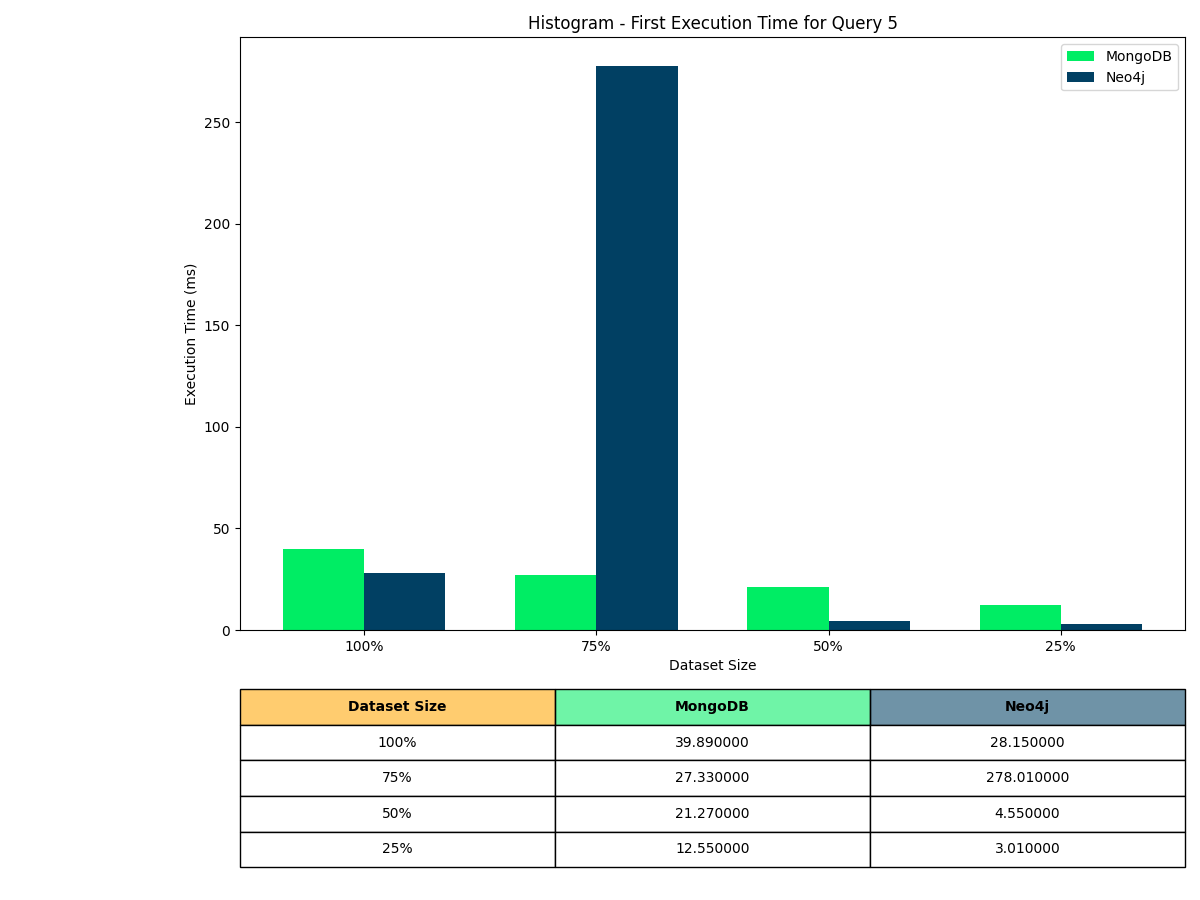
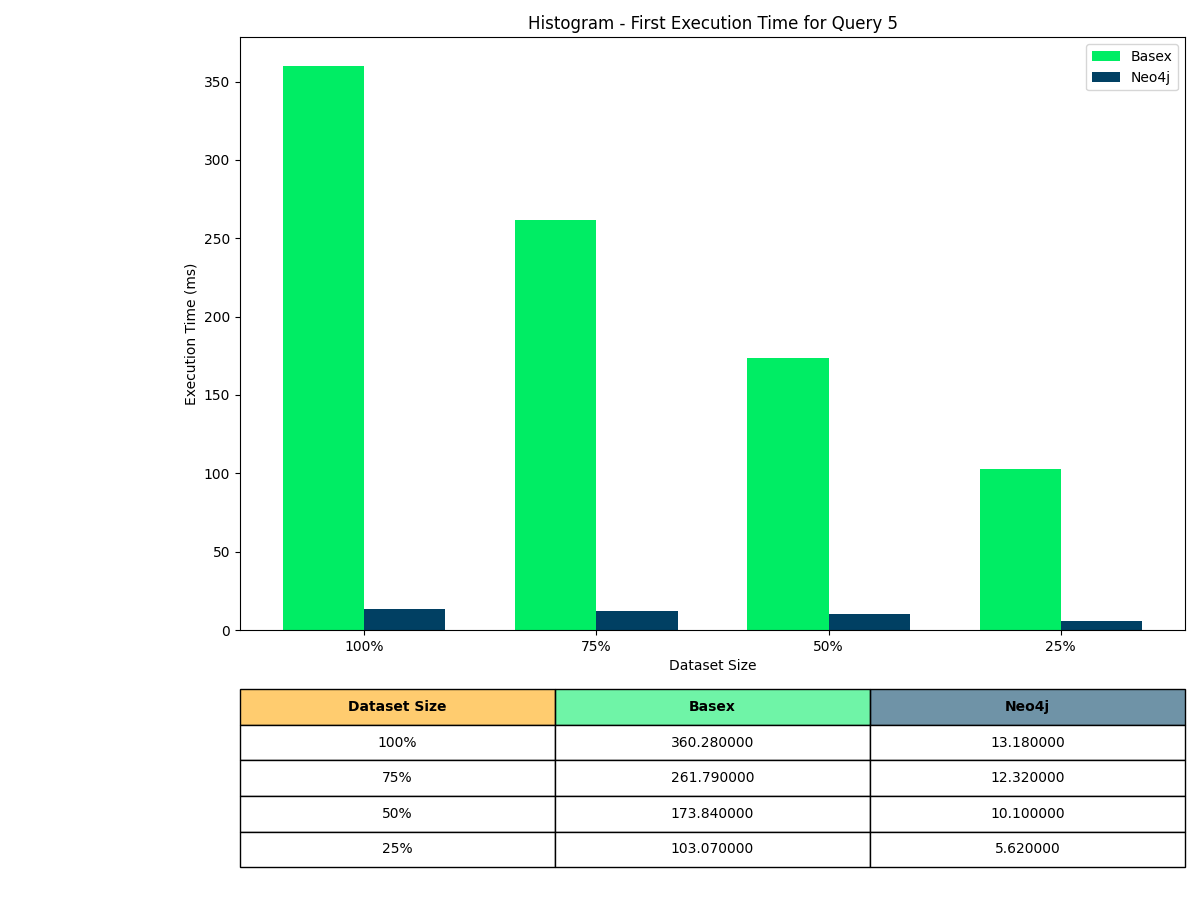
Finito tutto (forse)

diff --git a/BaseX/Query.py b/BaseX/Query.py
@@ -56,7 +56,7 @@ def query2(session, percentage):
 
         let $company := collection(concat("UBO_", '{percentage}'))//ubo_record[@entity_type='companies' and id=9133]
 
-        let $admins_ids := tokenize(substring-before(substring-after($company/administrators/text(), '['), ']'), ',\s*')
+        let $admins_ids := tokenize(substring-before(substring-after($company/administrators/text(), '['), ']'), ',\\s*')
 
         let $admins := 
             for $admin_id in $admins_ids
@@ -84,13 +84,13 @@ def query3(session, percentage):
 
         let $company := collection(concat("UBO_", '{percentage}'))//ubo_record[@entity_type='companies' and id={company_id}]
         
-        let $admins_ids := tokenize(substring-before(substring-after($company/administrators/text(), '['), ']'), ',\s*')
+        let $admins_ids := tokenize(substring-before(substring-after($company/administrators/text(), '['), ']'), ',\\s*')
         
         let $admins := 
             for $admin_id in $admins_ids
             return collection(concat("UBO_", '{percentage}'))//ubo_record[@entity_type='administrators' and id=xs:integer($admin_id)]
 
-        let $ubo_ids := tokenize(substring-before(substring-after($company/ubo/text(), '['), ']'), ',\s*')
+        let $ubo_ids := tokenize(substring-before(substring-after($company/ubo/text(), '['), ']'), ',\\s*')
 
         let $ubos := 
             for $ubo_id in $ubo_ids
@@ -141,13 +141,13 @@ def query4(session, percentage):
 
     let $company := collection(concat("UBO_", '{percentage}'))//ubo_record[@entity_type='companies' and id={company_id}]
 
-    let $admins_ids := tokenize(substring-before(substring-after($company/administrators/text(), '['), ']'), ',\s*')
+    let $admins_ids := tokenize(substring-before(substring-after($company/administrators/text(), '['), ']'), ',\\s*')
 
     let $admins := 
         for $admin_id in $admins_ids
         return collection(concat("UBO_", '{percentage}'))//ubo_record[@entity_type='administrators' and id=xs:integer($admin_id)]
 
-    let $ubo_ids := tokenize(substring-before(substring-after($company/ubo/text(), '['), ']'), ',\s*')
+    let $ubo_ids := tokenize(substring-before(substring-after($company/ubo/text(), '['), ']'), ',\\s*')
 
     let $ubos := 
         for $ubo_id in $ubo_ids
@@ -155,7 +155,7 @@ def query4(session, percentage):
         where xs:decimal($ubo_record/ownership_percentage) > {ubo_percentage}
         return $ubo_record
 
-    let $transaction_ids := tokenize(substring-before(substring-after($company/transactions/text(), '['), ']'), ',\s*')
+    let $transaction_ids := tokenize(substring-before(substring-after($company/transactions/text(), '['), ']'), ',\\s*')
 
     let $start_date := xs:date("{start_date}")
     let $end_date := xs:date("{end_date}")
@@ -216,13 +216,13 @@ def query5(session, percentage):
 
     let $company := collection(concat("UBO_", '{percentage}'))//ubo_record[@entity_type='companies' and id={company_id}]
 
-    let $admins_ids := tokenize(substring-before(substring-after($company/administrators/text(), '['), ']'), ',\s*')
+    let $admins_ids := tokenize(substring-before(substring-after($company/administrators/text(), '['), ']'), ',\\s*')
 
     let $admins := 
         for $admin_id in $admins_ids
         return collection(concat("UBO_", '{percentage}'))//ubo_record[@entity_type='administrators' and id=xs:integer($admin_id)]
 
-    let $ubo_ids := tokenize(substring-before(substring-after($company/ubo/text(), '['), ']'), ',\s*')
+    let $ubo_ids := tokenize(substring-before(substring-after($company/ubo/text(), '['), ']'), ',\\s*')
 
     let $ubos := 
         for $ubo_id in $ubo_ids
@@ -230,7 +230,7 @@ def query5(session, percentage):
         where xs:decimal($ubo_record/ownership_percentage) > {ubo_percentage}
         return $ubo_record
 
-    let $transaction_ids := tokenize(substring-before(substring-after($company/transactions/text(), '['), ']'), ',\s*')
+    let $transaction_ids := tokenize(substring-before(substring-after($company/transactions/text(), '['), ']'), ',\\s*')
 
     let $date := xs:date("{date}")
 
@@ -242,7 +242,7 @@ def query5(session, percentage):
 
     let $total_transaction_amount := sum($transactions/amount)
 
-    let $kyc_aml_ids := tokenize(substring-before(substring-after($company/kyc_aml_checks/text(), '['), ']'), ',\s*')
+    let $kyc_aml_ids := tokenize(substring-before(substring-after($company/kyc_aml_checks/text(), '['), ']'), ',\\s*')
 
     let $kyc_aml_results := 
         for $kyc_aml_id in $kyc_aml_ids
@@ -297,6 +297,13 @@ def main():
     session = BaseXClient.Session('localhost', 1984, 'admin', 'admin')
 
     percentages = ['100', '75', '50', '25']  # Percentuali del dataset
+    # Dizionario per la mappatura diretta dei dataset ai valori con il simbolo della percentuale nei file di ResponseTime
+    dataset_mapping = {
+        '100': '100%',
+        '75': '75%',
+        '50': '50%',
+        '25': '25%'
+    }
     first_execution_response_times = {}
     average_response_times = {}
 
@@ -396,12 +403,14 @@ def main():
 
         print("-" * 70)  # Separatore tra le diverse percentuali
 
+
     # Salva i risultati
     with open('BaseX/ResponseTimes/basex_response_times_first_execution.csv', mode='w', newline='') as file:
         writer = csv.writer(file)
         writer.writerow(['Dataset', 'Query', 'Milliseconds'])
         for query, first_execution_time in first_execution_response_times.items():
             dataset, query = query.split(' - ')
+            dataset = dataset_mapping.get(dataset, dataset)
             writer.writerow([dataset, query, first_execution_time])
 
     with open('BaseX/ResponseTimes/basex_response_times_average_30.csv', mode='w', newline='') as file:
@@ -409,9 +418,10 @@ def main():
         writer.writerow(['Dataset', 'Query', 'Milliseconds', 'Average', 'Confidence Interval (Min, Max)'])
         for query, (average_time_subsequent, mean_value, margin_of_error) in average_response_times.items():
             dataset, query_name = query.split(' - ')
+            dataset = dataset_mapping.get(dataset, dataset)
             min_interval = round(mean_value - margin_of_error, 2)
             max_interval = round(mean_value + margin_of_error, 2)
-            writer.writerow([dataset, query_name, average_time_subsequent, mean_value, f"{min_interval}, {max_interval}"])
+            writer.writerow([dataset, query_name, average_time_subsequent, mean_value, f"[{min_interval}, {max_interval}]"])
         print("Average response times were written in 'basex_response_times_first_execution.csv' and 'basex_response_times_average_30.csv'.")
 
     session.close()

diff --git a/Histograms/GenerateHistograms.py b/Histograms/GenerateHistograms.py
@@ -6,7 +6,7 @@ import numpy as np
 
 # Definisce i percorsi ai file CSV per i dati di BaseX e Neo4j
 basex_csv_paths = [
-    "BaseX/ResponseTimes/basex_times_of_response_first_execution.csv",
+    "BaseX/ResponseTimes/basex_response_times_first_execution.csv",
     "BaseX/ResponseTimes/basex_response_times_average_30.csv",
 ]
 
@@ -52,12 +52,12 @@ for query in queries:
     bar_width = 0.35
     index = np.arange(len(dataset_sizes))
 
-    # Estrai i valori di tempo di esecuzione per basexDB e Neo4j
+    # Estrai i valori di tempo di esecuzione per Basex e Neo4j
     values_basex_first_execution = [data_basex_query_first_execution[data_basex_query_first_execution['Dataset'] == size]['Milliseconds'].values[0] for size in dataset_sizes]
     values_neo4j_first_execution = [data_neo4j_query_first_execution[data_neo4j_query_first_execution['Dataset'] == size]['Milliseconds'].values[0] for size in dataset_sizes]
 
-    # Crea i barplot per basexDB e Neo4j
-    plt.bar(index - bar_width / 2, values_basex_first_execution, bar_width, label='basexDB', color=color_basex)
+    # Crea i barplot per Basex e Neo4j
+    plt.bar(index - bar_width / 2, values_basex_first_execution, bar_width, label='Basex', color=color_basex)
     plt.bar(index + bar_width / 2, values_neo4j_first_execution, bar_width, label='Neo4j', color=color_neo4j)
 
     plt.xlabel('Dataset Size')
@@ -73,7 +73,7 @@ for query in queries:
         table_data.append([size, f"{basex_time:.6f}", f"{neo4j_time:.6f}"])
 
     # Rendi i nomi delle colonne in grassetto utilizzando il parametro 'fontweight'
-    column_labels = ['Dataset Size', 'basexDB', 'Neo4j']
+    column_labels = ['Dataset Size', 'Basex', 'Neo4j']
     table = plt.table(cellText=table_data, colLabels=column_labels, cellLoc='center', loc='bottom', bbox=[0.0, -0.4, 1, 0.3], colColours=['#ffa50090', '#00ED6490', '#01406390'])
     
     # Imposta il font in grassetto per le etichette delle colonne
@@ -94,11 +94,11 @@ for query in queries:
     bar_width = 0.35
     index = np.arange(len(dataset_sizes))
 
-    # Estrai i valori di tempo di esecuzione medio per basexDB e Neo4j
+    # Estrai i valori di tempo di esecuzione medio per Basex e Neo4j
     values_basex_avg_30 = [data_basex_query_avg_30[data_basex_query_avg_30['Dataset'] == size]['Average'].values[0] for size in dataset_sizes]
     values_neo4j_avg_30 = [data_neo4j_query_avg_30[data_neo4j_query_avg_30['Dataset'] == size]['Average'].values[0] for size in dataset_sizes]
 
-    # Estrai gli intervalli di confidenza per basexDB e Neo4j
+    # Estrai gli intervalli di confidenza per Basex e Neo4j
     conf_intervals_basex = [extract_confidence_values(data_basex_query_avg_30[data_basex_query_avg_30['Dataset'] == size]['Confidence Interval (Min, Max)'].values[0]) for size in dataset_sizes]
     conf_intervals_neo4j = [extract_confidence_values(data_neo4j_query_avg_30[data_neo4j_query_avg_30['Dataset'] == size]['Confidence Interval (Min, Max)'].values[0]) for size in dataset_sizes]
 
@@ -112,8 +112,8 @@ for query in queries:
     basex_yerr = [np.array([values_basex_avg_30[i] - conf_basex_min[i], conf_basex_max[i] - values_basex_avg_30[i]]) for i in range(len(dataset_sizes))]
     neo4j_yerr = [np.array([values_neo4j_avg_30[i] - conf_neo4j_min[i], conf_neo4j_max[i] - values_neo4j_avg_30[i]]) for i in range(len(dataset_sizes))]
 
-    # Crea i barplot con barre di errore per basexDB e Neo4j
-    plt.bar(index - bar_width / 2, values_basex_avg_30, bar_width, yerr=np.array(basex_yerr).T, capsize=5, label='basexDB', color=color_basex)
+    # Crea i barplot con barre di errore per Basex e Neo4j
+    plt.bar(index - bar_width / 2, values_basex_avg_30, bar_width, yerr=np.array(basex_yerr).T, capsize=5, label='Basex', color=color_basex)
     plt.bar(index + bar_width / 2, values_neo4j_avg_30, bar_width, yerr=np.array(neo4j_yerr).T, capsize=5, label='Neo4j', color=color_neo4j)
 
     plt.xlabel('Dataset Size')
@@ -128,7 +128,7 @@ for query in queries:
     for size, basex_avg, neo4j_avg in zip(dataset_sizes, values_basex_avg_30, values_neo4j_avg_30):
         table_data.append([size, f"{basex_avg:.6f}", f"{neo4j_avg:.6f}"])
 
-    column_labels = ['Dataset Size', 'basexDB', 'Neo4j']
+    column_labels = ['Dataset Size', 'Basex', 'Neo4j']
     table = plt.table(cellText=table_data, colLabels=column_labels, cellLoc='center', loc='bottom', bbox=[0.0, -0.4, 1, 0.3], colColours=['#ffa50090', '#00ED6490', '#01406390'])
 
     # Imposta il font in grassetto per le etichette delle colonne

diff --git a/RunBenchmark.py b/RunBenchmark.py
@@ -3,8 +3,8 @@ import subprocess
 def execute_scripts():
     try:
         # Esegui il primo script
-        print(f"Running MongoDB/Query.py script")
-        subprocess.run(['python', 'MongoDB/Query.py'], check=True)
+        print(f"Running BaseX/Query.py script")
+        subprocess.run(['python', 'BaseX/Query.py'], check=True)
 
         # Esegui il secondo script
         print(f"Running Neo4j/Query.py script")
